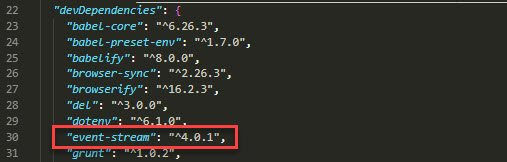
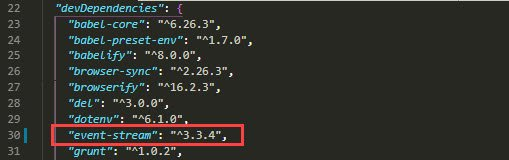
docs: Update 13.2 with downgrade package instructions

diff --git a/docs/stage4.md b/docs/stage4.md
@@ -1644,26 +1644,31 @@ This time the security vulnerabilities were gone but I still got the same error.
 
 After doing some research I found out this package was pulled due to a security violation but I had packages that depended on the bad version of the library.
 
-What I did next was install the latest version as a dev dependency with the following command.
+As it turns out, all versions of `event-stream > 3.3.4` are subject to this vulnerability.
+
+[![Package vulnerability message on GitHub](assets/images/4-60-small.jpg)](assets/images/4-60.jpg)
+**Figure 49:** Package vulnerability message on GitHub
+
+What I did next was install a downgraded version of this package as a dev dependency with the following command.
 
 ```bash
-npm install --save-dev event-stream
+npm install --save-dev event-stream@3.3.4
 ```
 
 This now updated my `package.json` with the following.
 
 [![Package.json](assets/images/4-51-small.jpg)](assets/images/4-51.jpg)
-**Figure 49:** Package.json
+**Figure 50:** Package.json
 
 The next log showed me that the build was able to install all dependencies.
 
 [![Dependencies Installed!](assets/images/4-53-small.jpg)](assets/images/4-53.jpg)
-**Figure 50:** Dependencies Installed!
+**Figure 51:** Dependencies Installed!
 
 The only problem is that we still had an error.
 
 [![Deploy Error](assets/images/4-52-small.jpg)](assets/images/4-52.jpg)
-**Figure 51:** Deploy Error
+**Figure 52:** Deploy Error
 
 This was because I had depended on a file I created at the root to hold my Google Maps API key. I specified this file in `.gitignore` so my API key wouldn't be copied to GitHub.
 
@@ -1675,12 +1680,12 @@ I needed to rely on convention and use a `.env` file to hold my API keys.
 The file looks like this in VS code.
 
 [![.env file](assets/images/4-55-small.jpg)](assets/images/4-55.jpg)
-**Figure 52:** .env file
+**Figure 53:** .env file
 
 This would allow me to set the **Build environment variables** option in Netlify to hold my API keys.
 
 [![Netlify Build environment variables](assets/images/4-54-small.jpg)](assets/images/4-54.jpg)
-**Figure 53:** Netlify Build environment variables
+**Figure 54:** Netlify Build environment variables
 
 ### 13.4 dotenv npm package
 Next I had to install a package that would allow me to easily access these values from my `gulpfile.js` build file.
@@ -1692,7 +1697,7 @@ npm install --save-dev dotenv
 ```
 
 [![dotenv in package.json](assets/images/4-56-small.jpg)](assets/images/4-56.jpg)
-**Figure 54:** dotenv in package.json
+**Figure 55:** dotenv in package.json
 
 ### 13.5 Update gulpfile.js
 Now I needed to include the package in `gulpfile.js` and reference it in two places.
@@ -1719,7 +1724,7 @@ Once I committed and pushed my changes, Netlify went to work.
 The log displayed **success** this time. My site was live!
 
 [![Build success](assets/images/4-57-small.jpg)](assets/images/4-57.jpg)
-**Figure 55:** Build Success
+**Figure 56:** Build Success
 
 Since I needed to do the same with the RestDB API key, I cleaned up the code a bit.
 
@@ -1780,9 +1785,9 @@ gulp.task('dbhelper:dist', function () {
 Now when I commit and push my changes this is what Netlify's **Deploys** page shows me.
 
 [![Deploys page](assets/images/4-59-small.jpg)](assets/images/4-59.jpg)
-**Figure 56:** Deploys page
+**Figure 57:** Deploys page
 
 Now when I test the URL I am able to see the site come up.
 
 [![Live Site](assets/images/4-58-small.jpg)](assets/images/4-58.jpg)
-**Figure 57:** Live Site
+**Figure 58:** Live Site
